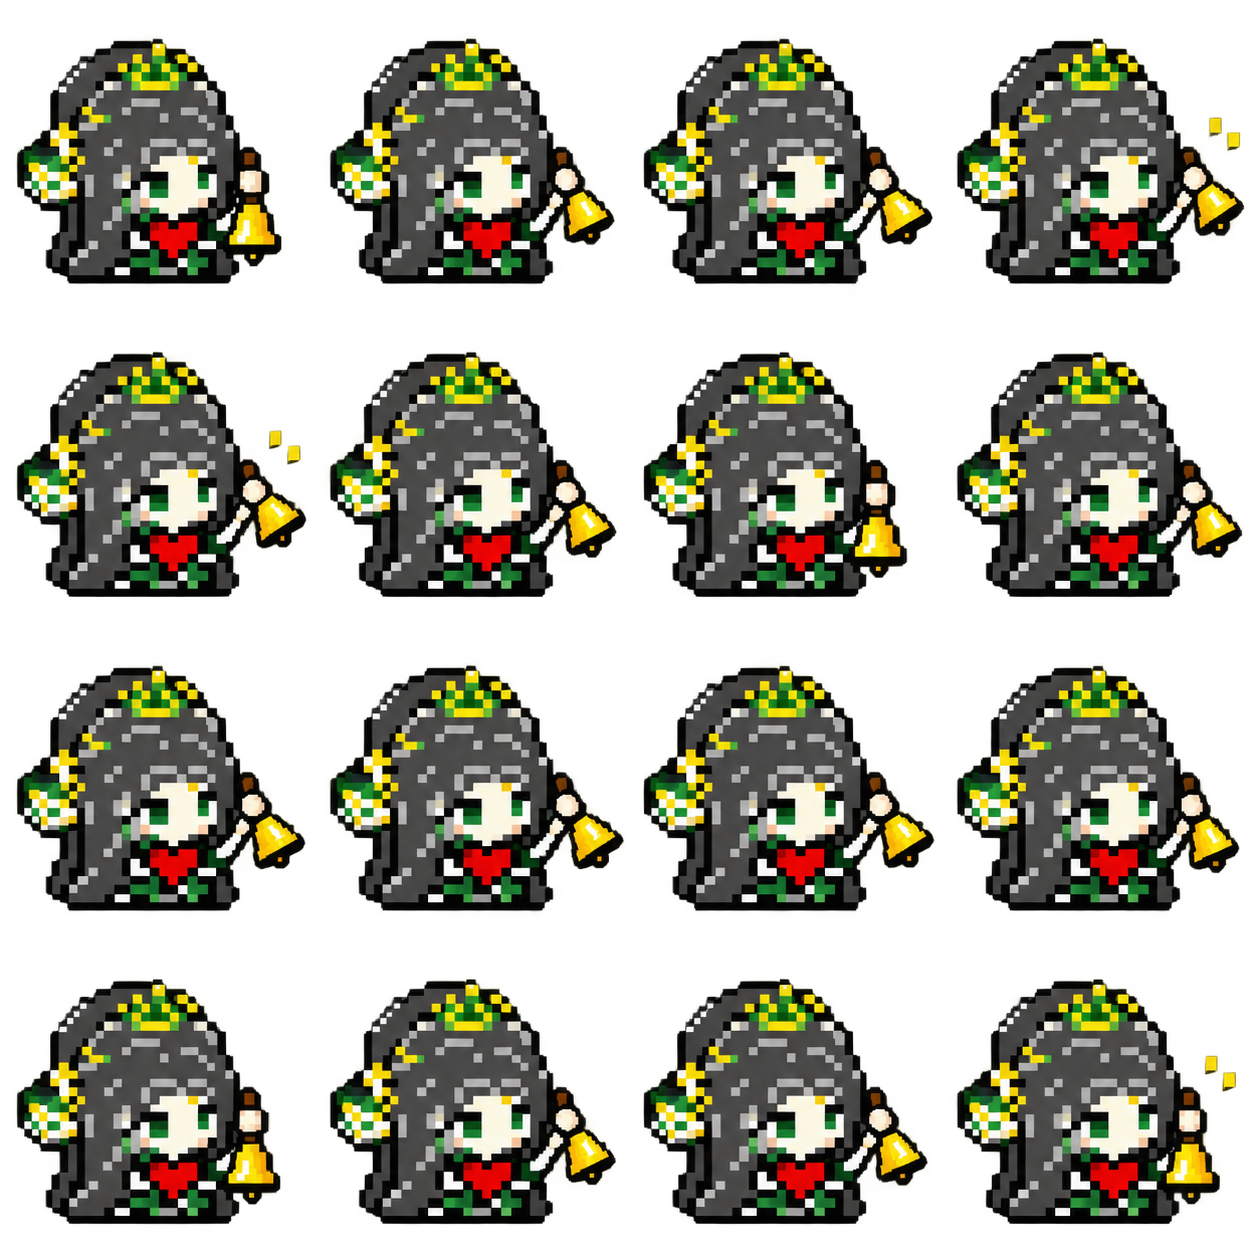
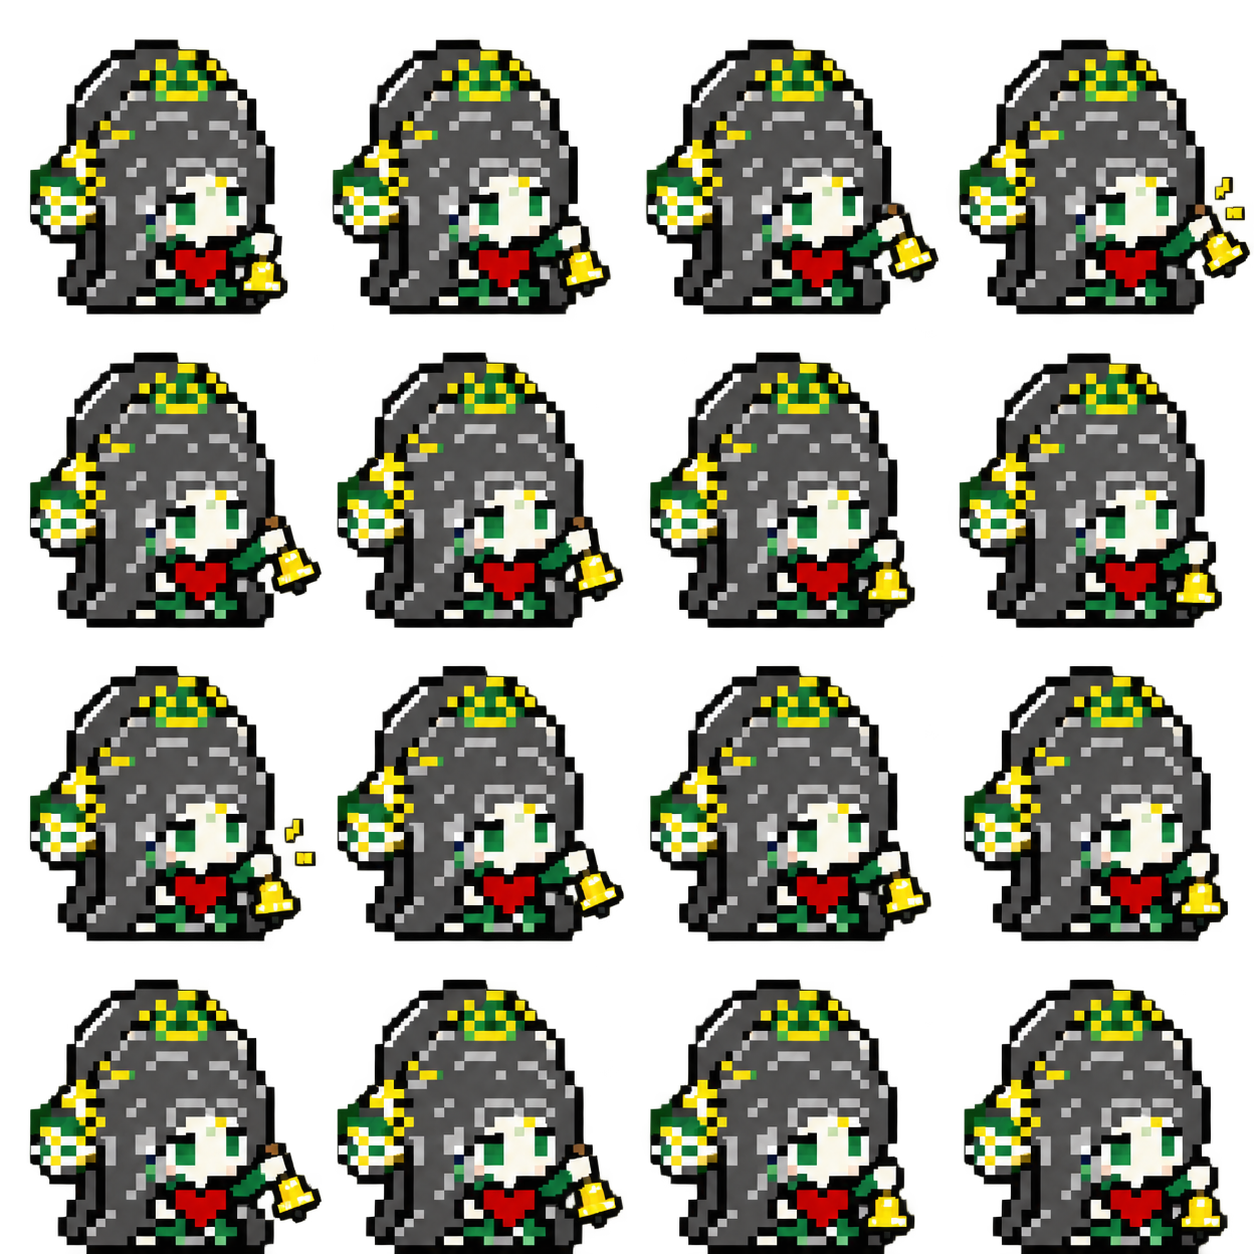
fix: match reminder sprites to wave silhouette and palette

diff --git a/Assets/Source/AnimationAtlases/reminder-wave-match-prompts.md b/Assets/Source/AnimationAtlases/reminder-wave-match-prompts.md
@@ -1,0 +1,25 @@
+# Reminder palette and silhouette match
+
+Mode: built-in `image_gen`, transparent RGBA. The sole image reference and edit target was the approved `wave-v3-source.png`. Only the reminder animation was regenerated; the wave artwork and playback remain unchanged.
+
+The revised source is `reminder-v3-source.png`; the normalized 4 × 4 runtime atlas is `reminder-v3.png`. The old broader reminder source/atlas and 16 runtime frames are preserved under `Assets/Archive/AnimationAtlases/suwudu-reminder-before-wave-match` and `Assets/Archive/Sprites/suwudu-reminder-before-wave-match`.
+
+## Prompt
+
+```text
+Use case: identity-preserve.
+Asset type: SuWuDu desktop pet, transparent 16-frame handbell-ringing sprite sheet.
+Input image 1 is the APPROVED WAVING SHEET and is the EDIT TARGET and the sole authoritative reference for silhouette, anatomy, scale, pixel size, palette, face, hair, and clothes.
+
+Primary request: convert ONLY the waving arm/hand into an arm holding and gently ringing a small yellow handbell. Keep every other part of the character EXACTLY as in this approved waving sheet. The current bell version was too wide/stocky and had a different color cast; this replacement must use the waving character itself.
+STRICT INVARIANTS: Preserve the same tall slender long-gray-hair silhouette, same narrow head/body width-to-height ratio, same large coarse pixel clusters, same neutral medium-gray hair with square light-gray highlights, same black contour, same cream skin, emerald-green eyes and clothes, lemon-yellow/green crown and side ornament, and exact vivid red heart. Match the wave image's colors directly, without warmer yellow/brown tint, darkening, extra highlights, desaturation, extra shading or gradients. Do not broaden the hair, cheeks, head or torso. Do not shorten the character to make space for the bell. Long hair covers the entire lower body; NO separated legs, NO visible feet underneath, NO gap cutouts around legs. Preserve the original flat hair hem from the waving sheet.
+
+Layout: same 4 columns by 4 rows, exactly 16 frames. Every whole character has the same unchanged body size and position as the supplied wave cells. Keep head, crown, hair, face, red heart and bottom silhouette completely stationary across frames. True transparent background. No text, numbering, borders or grid lines.
+Only action: a short GREEN SLEEVE on viewer-RIGHT connects to a compact cream mitten hand. The hand grips the TOP brown handle of a small GOLD/YELLOW handbell. The flared bell cup hangs BELOW the gripping hand, wide rim at its bottom, tiny dark clapper below rim. Keep bell small, about the size of the existing red heart, with dark hard-edged pixel outline, a few flat yellow shades and a cream highlight, same pixel scale as character. Bell stays in the empty space directly right of cheek/chest, never crosses the face or switches hands. Opposite hand remains holding red heart. No long bare forearm or white glove sleeve.
+Continuous gentle motion, 16 sequential poses: neutral downward bell, slight outward tilt, medium outward tilt, outward peak; medium outward tilt, slight outward tilt, neutral, slight inward tilt; inward peak, medium inward tilt, slight inward tilt, neutral; small outward rebound, smaller rebound, neutral, neutral matching first frame. Change the wrist and bell only; keep the bell rigid. Two tiny yellow pixel sound ticks appear beside bell at outward and inward peaks only.
+Keep all artwork inside cells with clear padding. No shadow, no glow, no checkerboard painted into background, no particles, no redesign. The result must look like the exact approved waving character simply picked up a bell.
+```
+
+## Extraction
+
+Run `node Scripts/BuildSuWuDuActionAtlases.mjs reminder-v3` with `sharp` available (or set `SHARP_MODULE`). This updates only the reminder source extraction, 16 runtime frames and the reminder registration entry. It preserves the generated RGBA and applies the same scale to all frames. Reviewed column gutters keep the small bell in its own frame even where the generated first-column poses extend beyond the nominal quarter-width boundary. The normalized output is 1448 × 1448 with 362 × 362 cells. Playback remains 90 ms/frame, with the final frame matching the opening frame.

diff --git a/Assets/README.md b/Assets/README.md
@@ -84,10 +84,15 @@ all twelve states. The imagegen prompts are saved alongside it in
 The approved `wave-v3-source.png` and `reminder-v3-source.png` are both 4-by-4
 imagegen sheets. Preserve their long-hair silhouette covering the lower body;
 the later eight-pose reminder experiment with exposed legs was rejected.
+The current reminder was redrawn directly from the approved wave sheet to match
+its narrow silhouette and neutral-gray/green palette. Its prompt is recorded in
+`Source/AnimationAtlases/reminder-wave-match-prompts.md`; the previous broader
+reminder is preserved in the `suwudu-reminder-before-wave-match` archive folders.
 
 Run `node Scripts/BuildSuWuDuActionAtlases.mjs` with Node and `sharp` available
 to rebuild only these two animations. `SHARP_MODULE` can point to an existing
-sharp installation. The script preserves generated RGBA and applies one
+sharp installation. Append `reminder-v3` to rebuild only the reminder frames and
+its registration entry without rewriting the wave. The script preserves generated RGBA and applies one
 nearest-neighbor scale per sheet, registering the crown instead of moving props.
 It emits 16 fixed 362-by-362 frames and a 1448-by-1448 atlas per action.
 Windows and Mac play waving at 100 ms per frame and reminders at 90 ms.

diff --git a/Assets/Source/AnimationAtlases/suwudu-actions-v3-prompts.md b/Assets/Source/AnimationAtlases/suwudu-actions-v3-prompts.md
@@ -2,7 +2,7 @@
 
 Mode: built-in `image_gen`, transparent RGBA output. The user selected the two 4 × 4 sheets from the second generation round. The later 4 × 2 reminder experiment was rejected because it exposed distinct legs/feet; it is not used or stored in the project. Preserve the long-hair silhouette hiding the lower body in future revisions.
 
-Selected originals: `wave-v3-source.png` and `reminder-v3-source.png`. Each is the unmodified imagegen output. Their normalized runtime atlases are `wave-v3.png` and `reminder-v3.png` (1448 × 1448, 4 × 4 cells of 362 × 362).
+The wave still uses the selected `wave-v3-source.png`. The original reminder described below is preserved in `Assets/Archive/AnimationAtlases/suwudu-reminder-before-wave-match`; its active replacement follows the wave's narrower silhouette and palette, with its prompt in `reminder-wave-match-prompts.md`. Active originals remain unmodified imagegen output. Their normalized runtime atlases are `wave-v3.png` and `reminder-v3.png` (1448 × 1448, 4 × 4 cells of 362 × 362).
 
 ## Generation prompts
 
